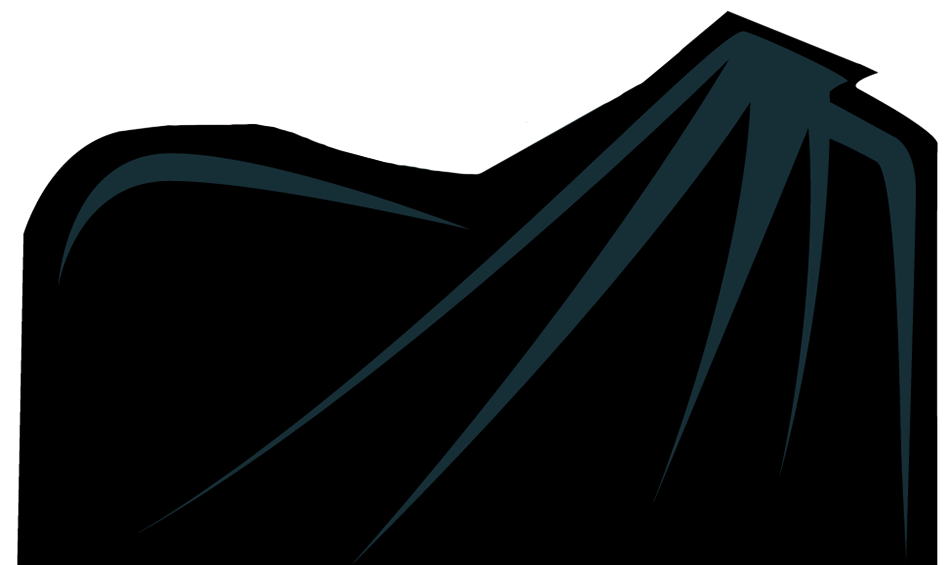
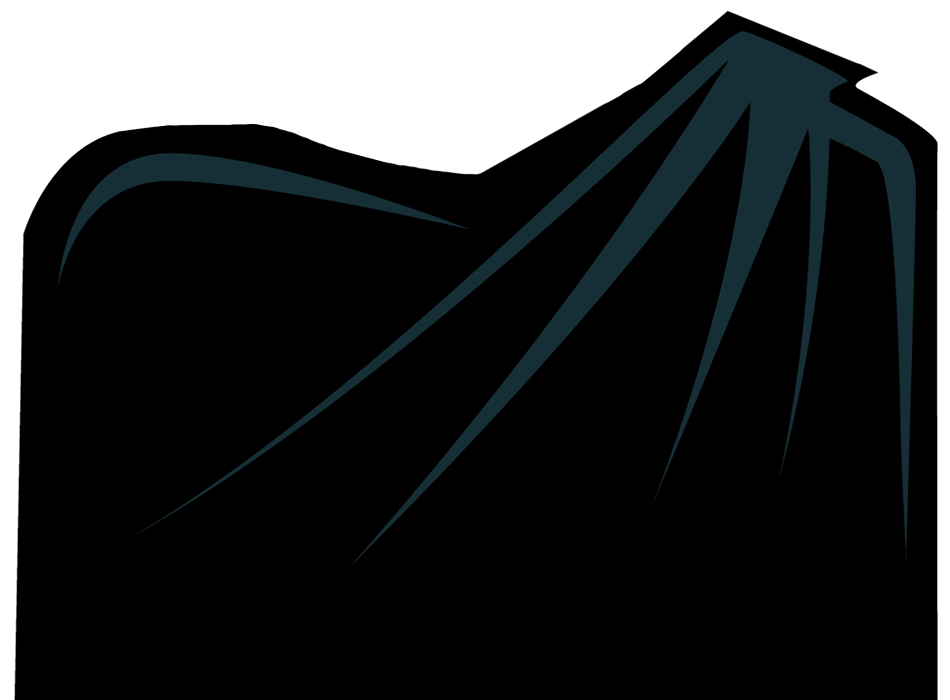
finishing up

diff --git a/storybook-holiday/new.html b/storybook-holiday/new.html
@@ -129,6 +129,7 @@ h1.heading-two {
 	background: #000 url("graveyard.jpg") top center no-repeat;
 	-webkit-animation: image_blur 4s;
 	animation: image_blur 4s;
+	padding-bottom: 165px;
 }
 @-webkit-keyframes image_blur {
 0% {
@@ -154,7 +155,7 @@ filter: blur(0px);
 	background: transparent url("cape.png") top center/cover;
 	margin: 0 auto;
 	max-width: 950px;
-	height: 565px;
+	height: 700px;
 }
 .dracula {
 	background: transparent url("dracula.png") top center/cover;
@@ -222,27 +223,18 @@ opacity: 1;
 }
 }
 .btn.btn-custom {
-	background: #a9283a;
-	font-size: 24px;
-	letter-spacing: 1.5px;
-	color: #fff;
+	background: #ec1c24;
+	color: #000;
 	border-radius: 2px;
 }
 .btn-custom:active, .btn-custom:hover, .btn-custom:focus {
-	background: #ef6971;
-	font-size: 24px;
-	letter-spacing: 1.5px;
+	background: #7d0f13;
 	color: #fff;
-	border-radius: 2px;
-	-webkit-box-shadow: rgba(255, 255, 255, 0.3) 0 4px 8px 0;
-	-moz-box-shadow: rgba(255, 255, 255, 0.3) 0 4px 8px 0;
-	box-shadow: rgba(255, 255, 255, 0.3) 0 4px 8px 0;
-	-webkit-transition: all .4s ease;
-	-moz-transition: all .4s ease-out;
-	-ms-transition: all .4s ease-out;
-	-o-transition: all .4s ease-out;
-	transition: all .4s ease-out;
-	opacity: 1;
+}
+a.btn.btn-default {
+	color: #000;
+	text-transform: uppercase;
+	font-weight: 500;
 }
 .flash {
 	height: 100%;
@@ -298,6 +290,52 @@ h1.block-font {
 }
 .monster-row {
 	height: 650px;
+}
+}
+.item-wrapper {
+	display: flex;
+	align-content: center;
+	justify-content: center;
+	margin: 0 10px;
+	align-items: center;
+}
+.item {
+	color: #fff;
+	width: 300px;
+	padding: 15px 0;
+}
+.align-bottom {
+	margin-top: auto;
+}
+
+@media (max-width: 725px) {
+.item-wrapper {
+	flex-direction: column;
+}
+.moon-row {
+	padding-bottom: 500px;
+}
+    h1.heading-two {
+	font-size: 100px;
+	line-height: .9em;
+}
+}
+
+@media (max-width: 600px) {
+h1.heading-two {
+	font-size: 65px;
+	line-height: .9em;
+}
+    h4.heading-one {
+	font-size: 50px;
+	line-height: .7em;
+}
+    .dracula {
+
+	margin-top: 40px;
+}
+    .moon-row {
+	padding-bottom: 390px;
 }
 }
 </style>
@@ -487,15 +525,34 @@ height="0" width="0" style="display:none;visibility:hidden"></iframe>
   <div id="general-alert" style="display:none;"></div>
   <!-- InstanceBeginEditable name="Content" -->
   <div class="flash">
-  <div class="row moon-row text-center">
-    <div class="dracula appear"> </div>
-    <div class="cape slide-in-top">
-      <h4 class="heading-one">A Storybook Holiday Halloween</h4>
-      <h1 class="heading-two">Welcome to<br>
-        Transylvania</h1>
-      <div class="padding-top-30 white">
-        <div class="large-text margin-top-10">Join us for a <i>bite</i> of ghastly good fun at our Castle Rock and Highlands Ranch locations.</div>
-        <div class="text-left">Dress up for the full experience! Visit Dracula’s coffin room (if you dare!) and decorate your Halloween bucket for trick-or-treating through the vampire bat cave. Sink your teeth into delicious catered snacks, sip the special witches’ brew, and do the Monster Mash. Your fangtastic evening also includes lively entertainment, make and takes, and crafts. Ideal for ages 7-11, but all ages are welcome. </div>
+    <div class="row moon-row text-center">
+      <div class="dracula appear"> </div>
+      <div class="cape slide-in-top">
+        <h4 class="heading-one">A Storybook Holiday Halloween</h4>
+        <h1 class="heading-two">Welcome to<br>
+          Transylvania</h1>
+        <div class="padding-top-30 margin-left-10 margin-right-10 white">
+          <div class="large-text margin-bottom-10">Join us for a <i>bite</i> of ghastly good fun at our Castle Rock and Highlands Ranch locations.</div>
+          <div>Dress up for the full experience! Visit Dracula’s coffin room (if you dare!) and decorate your Halloween bucket for trick-or-treating through the vampire bat cave. Sink your teeth into delicious catered snacks, sip the special witches’ brew, and do the Monster Mash. Your fangtastic evening also includes lively entertainment, make and takes, and crafts. Ideal for ages 7-11, but all ages are welcome. </div>
+          <div>
+            <h3 class="white no-margin-bottom">$20&nbsp;Adults*, $15 Ages&nbsp;3-13</h3>
+            (Ages 0-2 free with paying adult)</div>
+          <div class="item-wrapper">
+            <div class="item">
+              <h4 class="white"><span class="text-uppercase">Castle Rock</span><br>
+                Saturday,&nbsp;October&nbsp;16<br>
+                6-9PM</h4>
+              <div class="align-bottom padding-top-15 text-center"><a href="https://www.eventbrite.com/e/a-storybook-holiday-halloween-welcome-to-transylvania-tickets-160611466219" target="_blank" class="btn btn-default btn-lg btn-custom">Buy Tickets</a></div>
+            </div>
+            <div class="item">
+              <h4 class="white"><span class="text-uppercase">Highlands Ranch</span><br>
+                Saturday,&nbsp;October&nbsp;23<br>
+                6-9PM</h4>
+              <div class="align-bottom padding-top-15 text-center"><a href="https://www.eventbrite.com/e/a-storybook-holiday-halloween-welcome-to-transylvania-tickets-160613125181" target="_blank" class="btn btn-default btn-lg btn-custom">Buy Tickets</a></div>
+            </div>
+          </div>
+          <div class="large-text white padding-top-15">* An additional alcohol beverage ticket is $12 for adults 21-plus.</div>
+        </div>
       </div>
     </div>
   </div>
